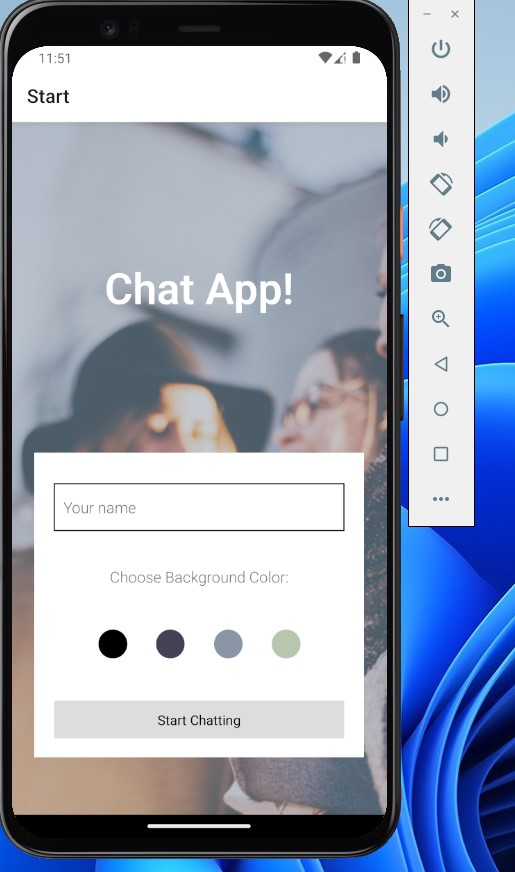
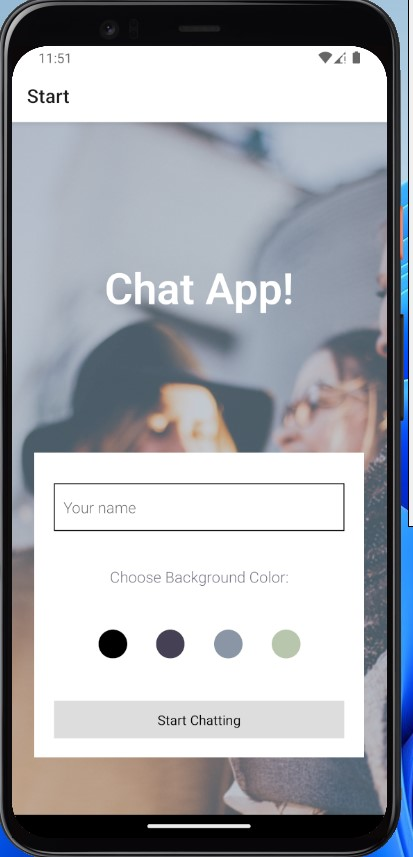
docs:updated ReadMe

diff --git a/README.md b/README.md
@@ -1,7 +1,7 @@
 # Chat App
 
 <p align ="center" >
-<img alt="Chatt-app" src="./assets/start.jpg" width="400" height="510" />
+<img alt="Chatt-app" src="./assets/start.jpg"/>
 </p>
 
 
